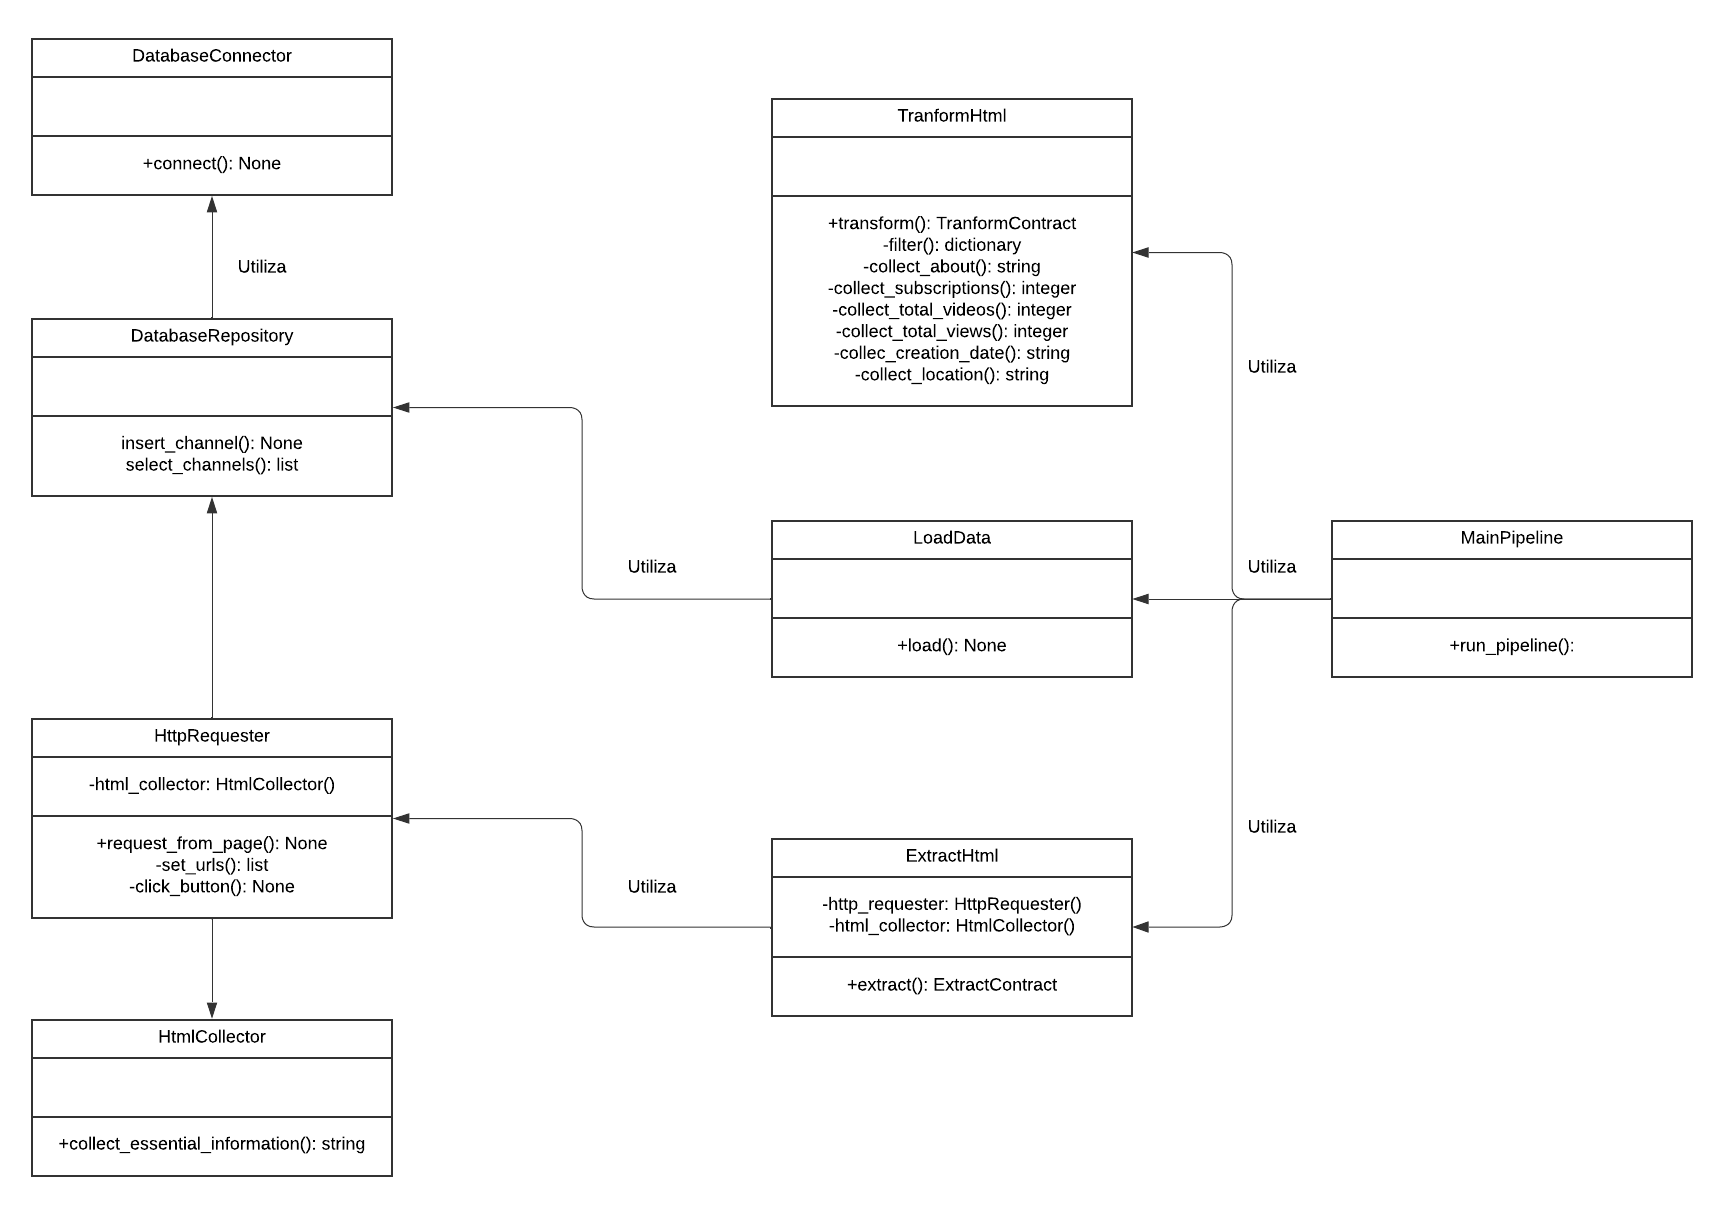
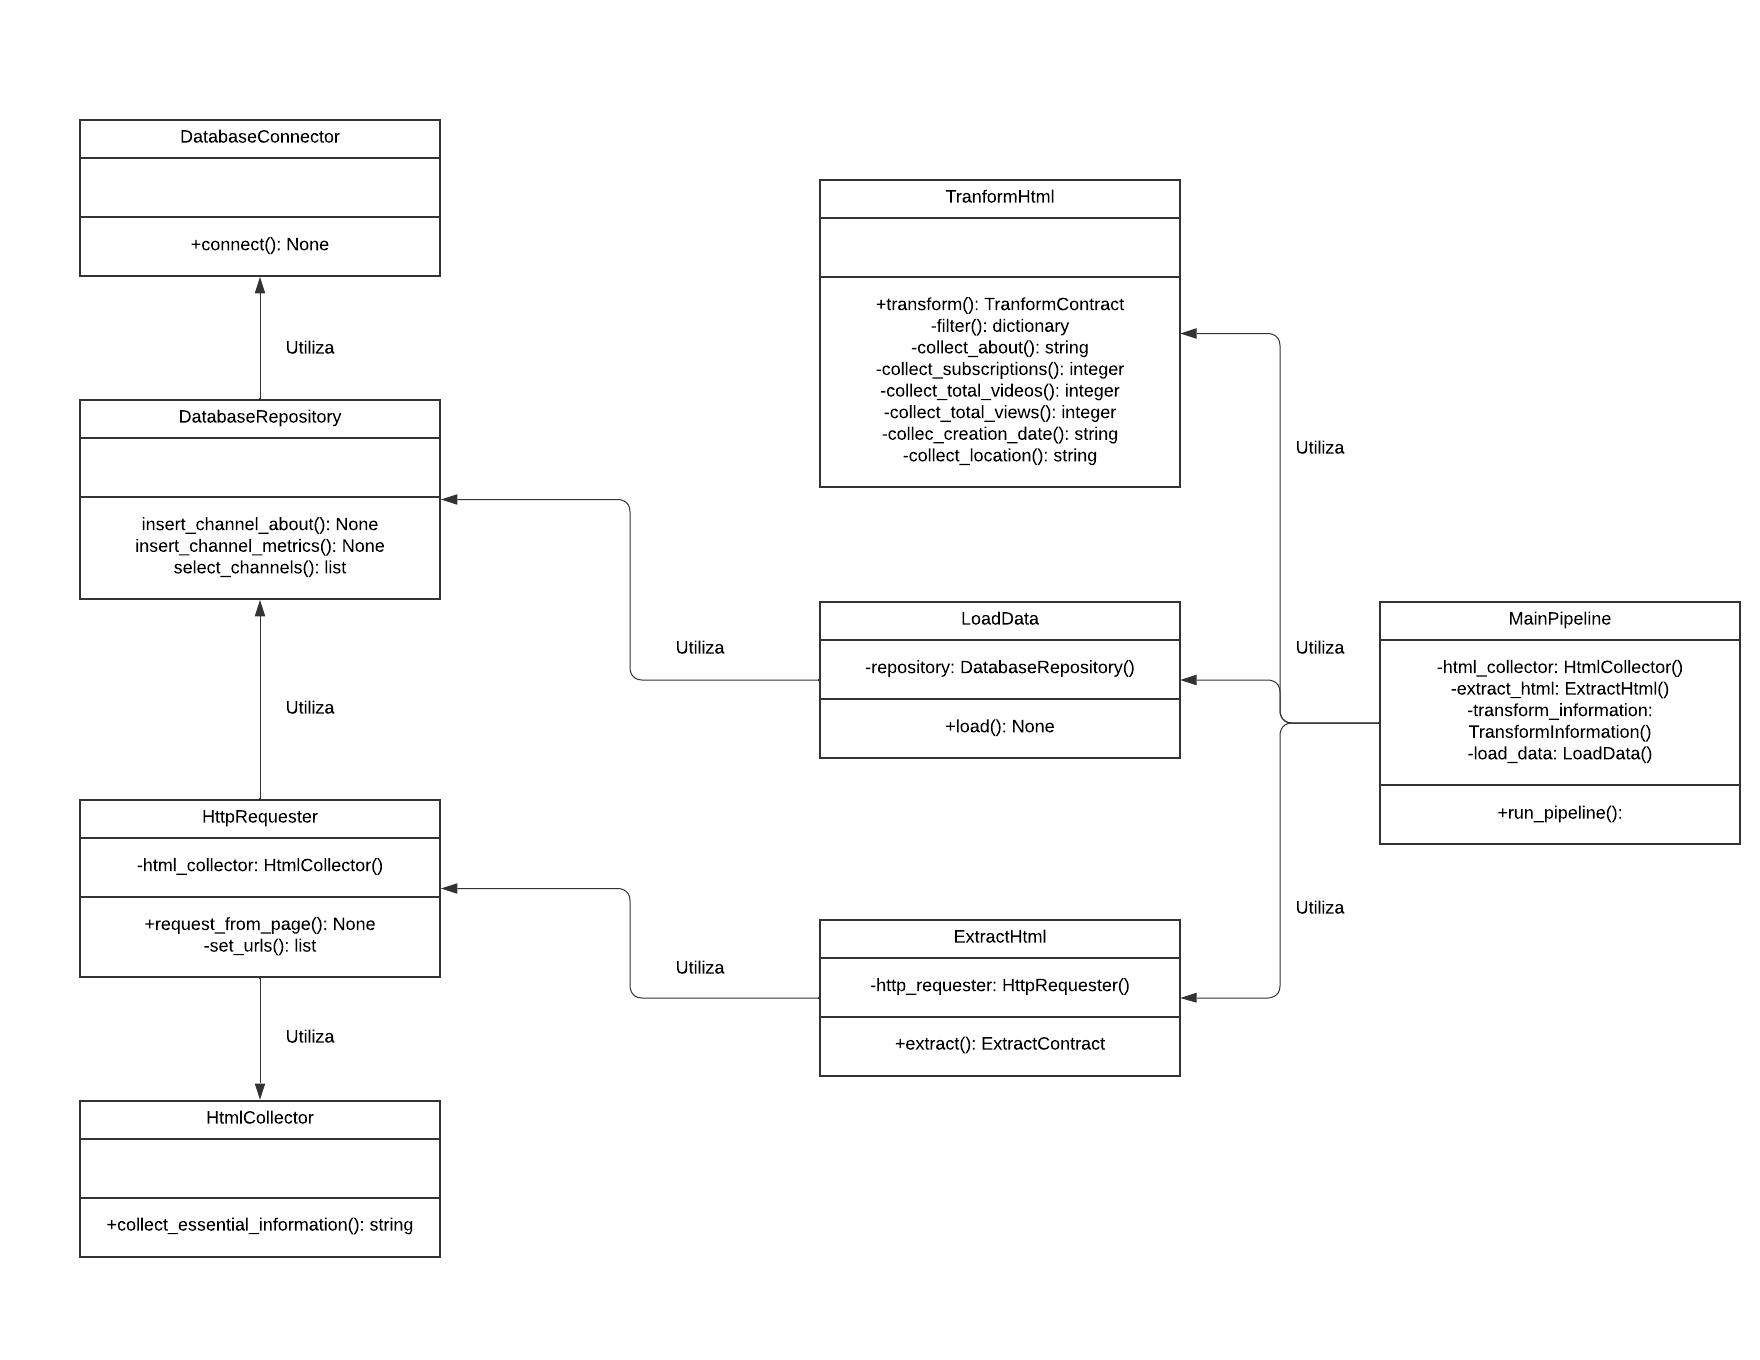
adding etapa 3

diff --git a/Etapa 2 - Expandindo o Banco de Dados/src/main/main_pipeline.py b/Etapa 2 - Expandindo o Banco de Dados/src/main/main_pipeline.py
@@ -11,12 +11,12 @@ class MainPipeline:
     def __init__(self) -> None:
         self.__html_collecor =  HtmlCollector()
         self.__extract_html = ExtractHtml(HttpRequester(self.__html_collecor))
-        self.__transform_html = TransformInformation()
+        self.__transform_information = TransformInformation()
         self.__load_data = LoadData(DatabaseRepository())
     
     def run_pipeline(self):
         DatabaseConnector.connect()
 
         self.__extract_html.extract()
-        self.__transform_html.tranform()
+        self.__transform_information.tranform()
         self.__load_data.load()
